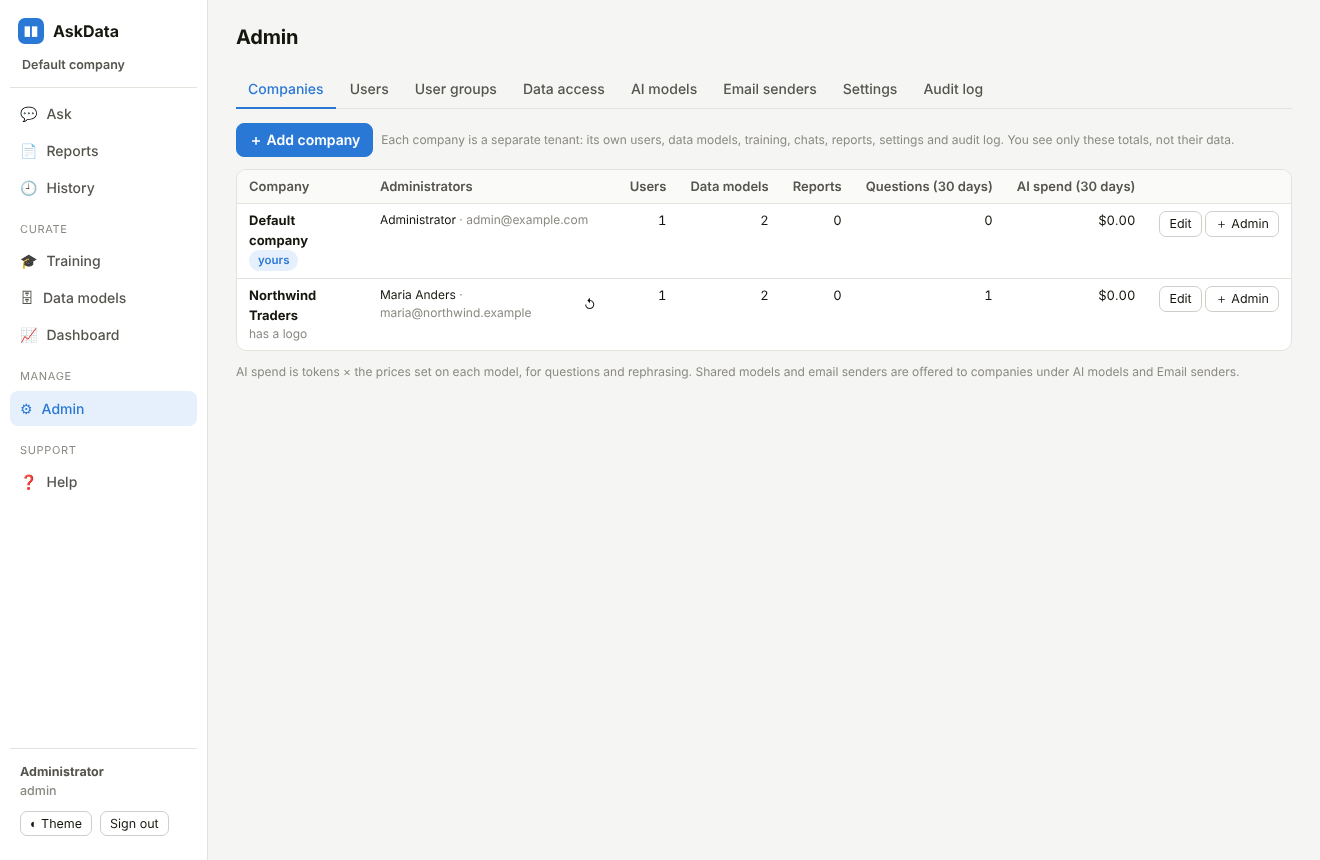
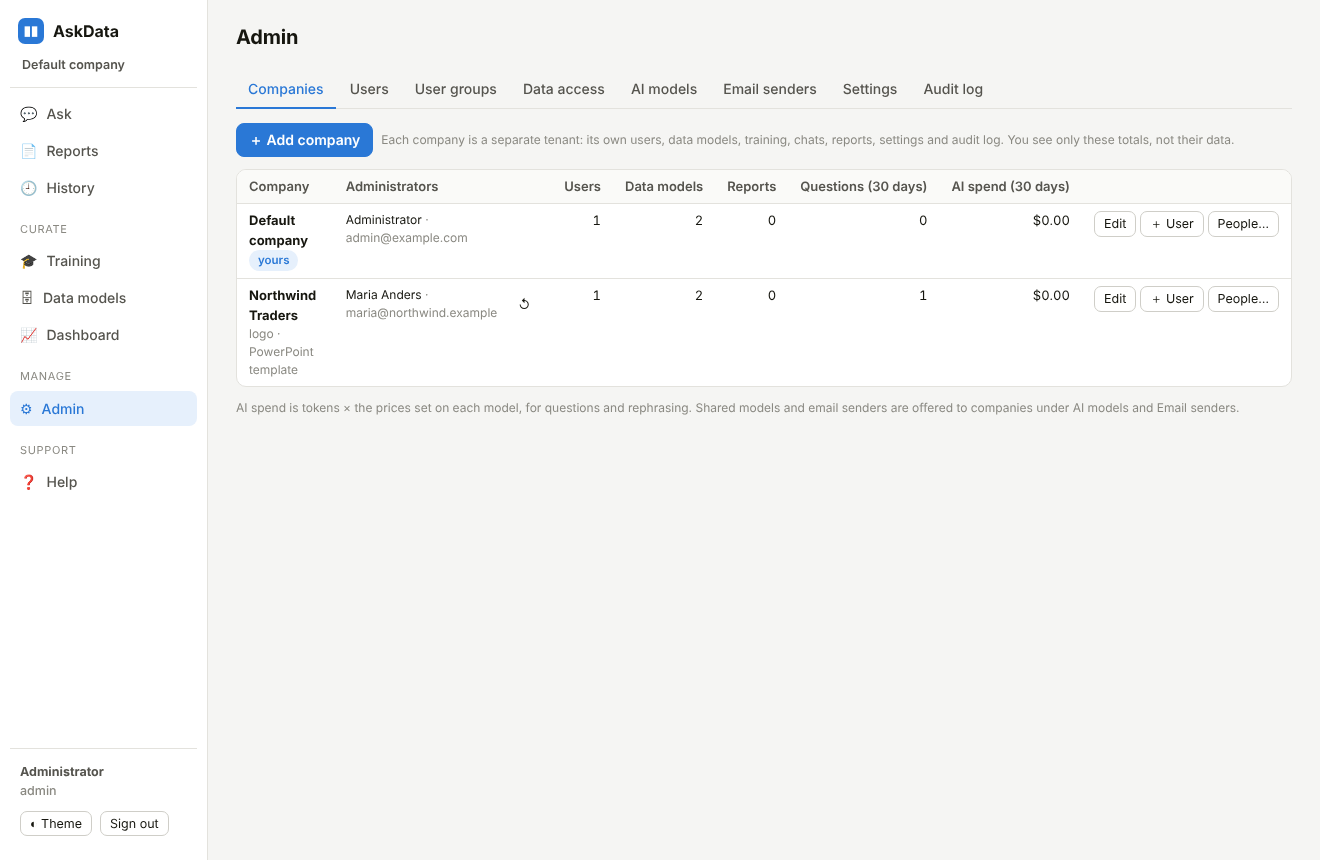
Companies: add people of any role to a company, and move people between companies
Platform administrators get "＋ User" on each company (analyst, steward or
administrator, with the results-only option) and "People…" listing a
company's people with "Move…".

Moving a person signs them out and removes every tie to the old company:
group memberships, personal data-model access, personal row filters,
things shared with them personally and their place on report schedules.
Reports they own are handed to an active administrator of the old company
chosen in the dialog, and any schedule on them is paused because the new
owner's access may differ. Their chats stay with the old company. The last
administrator of a company and one's own account cannot be moved. The move
is audited in both companies and at platform level.

No schema change. Tests: API test for adding, the move's clean-up and the
refusals; browser steps for both dialogs. Help and README updated.

Claude-Session: https://claude.ai/code/session_01Cbo37shq3Kw4uyW2GmsL1T

diff --git a/text2sql/static/js/admin.js b/text2sql/static/js/admin.js
@@ -178,12 +178,59 @@ function companiesTab(el) {
         close(); toast('Saved'); draw();
       }) }, 'Save')] });
   };
-  const addAdmin = c => {
-    const email = h('input', { type: 'email' }), person = h('input', { type: 'text' });
-    modal(`Add an administrator to ${c.name}`, h('div', { class: 'stack' }, field('Email', email), field('Name', person)), {
+  const ROLE_OPTS = [['analyst', 'Analyst — asks questions'], ['steward', 'Data steward — also curates training, sees dashboard'], ['admin', 'Administrator — manages the company']];
+  const roleAndView = (role0 = 'analyst', showSql = true) => {
+    const role = select(ROLE_OPTS, role0), view = select([['all', 'Results, SQL and code'], ['results', 'Results only — no SQL or Python code']], showSql ? 'all' : 'results');
+    const sync = () => { view.disabled = role.value !== 'analyst'; if (view.disabled) view.value = 'all'; };
+    role.addEventListener('change', sync); sync();
+    return { role, view, fields: [field('Role', role), field('What answers show', view, 'analysts only')] };
+  };
+  const addUser = (c, done = draw) => {
+    const email = h('input', { type: 'email' }), person = h('input', { type: 'text' }), rv = roleAndView();
+    modal(`Add a user to ${c.name}`, h('div', { class: 'stack' }, h('div', { class: 'grid2' }, field('Email', email), field('Name', person)), ...rv.fields,
+      h('p', { class: 'small dim', style: 'margin:0' }, `They belong to ${c.name} only and see only its data models, chats and reports. They get a one-time password and choose their own at first sign-in.`)), {
       actions: close => [h('button', { class: 'btn', onclick: close }, 'Cancel'), h('button', { class: 'btn primary', onclick: e => busy(e.target, async () => {
-        const r = await api('POST', `/api/admin/companies/${c.id}/admins`, { email: email.value, name: person.value }); close(); draw(); showPw(r.email, r.temporary_password);
-      }) }, 'Add')] });
+        const r = await api('POST', `/api/admin/companies/${c.id}/users`, { email: email.value, name: person.value, role: rv.role.value, show_sql: rv.view.value !== 'results' });
+        close(); done(); showPw(r.email, r.temporary_password);
+      }) }, 'Add user')] });
+  };
+  const move = (u, from, all, done) => {
+    const others = all.filter(x => x.id !== from.id);
+    const to = select(others.map(x => [x.id, x.name + (x.is_active ? '' : ' (inactive)')]), others[0]?.id);
+    const rv = roleAndView(u.role, u.show_sql);
+    const heirs = from.admins.filter(a => a.id !== u.id && a.is_active);
+    const heir = u.reports ? select(heirs.map(a => [a.id, `${a.name || a.email} · ${a.email}`]), heirs[0]?.id) : null;
+    modal(`Move ${u.name || u.email} to another company`, h('div', { class: 'stack' }, field('Move to', to), ...rv.fields,
+      u.reports ? (heirs.length ? field(`Who takes over their ${u.reports} report${u.reports > 1 ? 's' : ''} in ${from.name}`, heir, 'an administrator of the company they leave')
+        : h('div', { class: 'banner warn small' }, `They own ${u.reports} report${u.reports > 1 ? 's' : ''}, and ${from.name} has no other active administrator to take ${u.reports > 1 ? 'them' : 'it'} over. Add one with ＋ User first.`)) : null,
+      h('div', { class: 'banner info small' }, h('b', {}, 'What happens: '), `they are signed out, and next time they sign in to the new company. In ${from.name} they leave their user groups, their personal data access, row filters and shares, and any report schedules that email them. `,
+        u.reports ? `Their reports stay in ${from.name} with the person chosen above; any schedule on them is paused until that person checks and restarts it. ` : '',
+        `Their chats stay with ${from.name} and are no longer visible to them. Nothing is deleted.`)), {
+      actions: close => [h('button', { class: 'btn', onclick: close }, 'Cancel'), h('button', { class: 'btn primary', disabled: !others.length || (u.reports && !heirs.length), onclick: e => busy(e.target, async () => {
+        const r = await api('POST', `/api/admin/companies/${to.value}/users/${u.id}/move`, { role: rv.role.value, show_sql: rv.view.value !== 'results', reports_to: heir ? Number(heir.value) : null });
+        close(); done();
+        toast(`${r.email} moved` + (r.reports_handed_over ? ` — ${r.reports_handed_over} report(s) now with ${r.reports_to}` + (r.schedules_paused ? `, ${r.schedules_paused} schedule(s) paused` : '') : ''));
+      }) }, 'Move')] });
+  };
+  const people = (c, all) => {
+    const box = h('div', { class: 'stack' });
+    const load = async () => {
+      const list = await api('GET', `/api/admin/companies/${c.id}/users`);
+      const fresh = (await api('GET', '/api/admin/companies')).find(x => x.id === c.id) || c;
+      fill(box, h('div', { class: 'row' }, h('button', { class: 'btn primary sm', onclick: () => addUser(c, () => { load(); draw(); }) }, '＋ User'),
+          h('span', { class: 'small dim' }, `${list.length} ${list.length === 1 ? 'person' : 'people'}`)),
+        list.length ? h('div', { class: 'tbl-wrap', style: 'max-height:55vh' }, h('table', { class: 'tbl' },
+          h('thead', {}, h('tr', {}, ['Person', 'Role', 'Reports', 'Last sign-in', ''].map(t => h('th', {}, t)))),
+          h('tbody', {}, list.map(u => h('tr', {},
+            h('td', {}, h('b', {}, u.name || u.email), h('div', { class: 'small dim' }, u.email)),
+            h('td', {}, u.role, u.role === 'analyst' && !u.show_sql ? h('div', {}, h('span', { class: 'badge' }, 'results only')) : null,
+              u.is_platform_admin ? h('div', {}, h('span', { class: 'badge info' }, 'platform admin')) : null, u.is_active ? null : h('div', {}, h('span', { class: 'badge bad' }, 'disabled'))),
+            h('td', { class: 'num' }, u.reports), h('td', { class: 'nowrap small' }, fmtTime(u.last_login_at)),
+            h('td', { class: 'right' }, u.id === state.me.id ? h('span', { class: 'small dim' }, 'you')
+              : h('button', { class: 'btn sm', onclick: () => move(u, fresh, all, () => { load(); draw(); }) }, 'Move…'))))))) : h('div', { class: 'empty small' }, 'Nobody yet.'));
+    };
+    modal(`People in ${c.name}`, box, { wide: true });
+    load().catch(fail);
   };
   const reset = (c, a) => async () => {
     if (!await confirmDialog('Reset this administrator’s password?', `${a.email} (${c.name}) gets a new temporary password and is signed out.`, 'Reset', false)) return;
@@ -203,7 +250,7 @@ function companiesTab(el) {
             c.is_mine ? null : h('button', { class: 'btn ghost sm', title: 'Reset this administrator’s password', onclick: reset(c, a) }, '↺'))) : h('span', { class: 'badge warn' }, 'none')),
           h('td', { class: 'num' }, c.users), h('td', { class: 'num' }, c.data_models), h('td', { class: 'num' }, c.reports), h('td', { class: 'num' }, c.questions_30d),
           h('td', { class: 'num' }, '$' + c.spend_30d.toFixed(2)),
-          h('td', { class: 'right nowrap' }, h('button', { class: 'btn sm', onclick: () => editCo(c) }, 'Edit'), ' ', h('button', { class: 'btn sm', onclick: () => addAdmin(c) }, '＋ Admin'))))))),
+          h('td', { class: 'right nowrap' }, h('button', { class: 'btn sm', onclick: () => editCo(c) }, 'Edit'), ' ', h('button', { class: 'btn sm', onclick: () => addUser(c) }, '＋ User'), ' ', h('button', { class: 'btn sm', onclick: () => people(c, list) }, 'People…'))))))),
       h('p', { class: 'small dim' }, 'AI spend is tokens × the prices set on each model, for questions and rephrasing. Shared models and email senders are offered to companies under AI models and Email senders.')));
   }
   draw().catch(fail);

diff --git a/text2sql/static/help/help.html b/text2sql/static/help/help.html
@@ -699,7 +699,7 @@ GRANT SELECT ON ALL TABLES IN SCHEMA db.public TO ROLE askdata_ro;</pre>
 <h3>Who does what</h3>
 <table>
 <tr><th>Role</th><th>Can</th></tr>
-<tr><td><b>Platform administrator</b></td><td>Everything an administrator can do in their own company, plus the <b>Companies</b> tab: add, rename and suspend companies, add a company's administrators and reset their passwords, upload a company's logo, see each company's size and AI spend — but <i>not</i> its data. Manages the <b>shared</b> AI models and email senders, and installation-wide settings (session length, sign-in lockout).</td></tr>
+<tr><td><b>Platform administrator</b></td><td>Everything an administrator can do in their own company, plus the <b>Companies</b> tab: add, rename and suspend companies, add people to any company and move them between companies, reset administrators' passwords, upload a company's logo, see each company's size and AI spend — but <i>not</i> its data. Manages the <b>shared</b> AI models and email senders, and installation-wide settings (session length, sign-in lockout).</td></tr>
 <tr><td><b>Administrator</b> (of a company)</td><td>Everything inside their company: users, groups, data models, data access and filters, their own AI models and email senders, which shared ones their company uses, company settings and logo.</td></tr>
 </table>
 <p>After an update from a single-company version, everything that existed becomes <b>Default company</b> (rename it under Companies) and the existing administrators become platform administrators. A platform administrator can give or take away this right under Admin → Users (<i>Platform administrator</i>, for administrators only).</p>
@@ -711,7 +711,21 @@ GRANT SELECT ON ALL TABLES IN SCHEMA db.public TO ROLE askdata_ro;</pre>
 <li>Pass the one-time password shown to their administrator securely; they choose their own at first sign-in.</li>
 <li>Give the company an AI model: share one (below), or let their administrator add their own key under AI models.</li>
 </ol>
-<p><b>Edit</b> renames a company, uploads its logo, or makes it <b>inactive</b>: all its people are signed out at once and cannot sign in until it is active again; nothing is deleted. You cannot suspend your own company. <b>＋ Admin</b> adds another administrator; <b>↺</b> next to an administrator gives them a new temporary password (for a company that is locked out).</p>
+<p><b>Edit</b> renames a company, uploads its logo, or makes it <b>inactive</b>: all its people are signed out at once and cannot sign in until it is active again; nothing is deleted. You cannot suspend your own company. <b>↺</b> next to an administrator gives them a new temporary password (for a company that is locked out).</p>
+<h3>Adding people to a company</h3>
+<p><b>＋ User</b> on a company's row adds a person straight into that company — analyst, data steward or administrator, and for analysts whether answers show <i>results only</i>. Pass the one-time password shown to them securely. A company's own administrator can also add people under Admin → Users; they always join that administrator's company.</p>
+<figure><img src="/static/help/img/company-add-user.png" alt="Add a user to Northwind Traders with email, name, role and what answers show"><figcaption>Adding a user straight into a company.</figcaption></figure>
+<h3>Moving a person to another company</h3>
+<p><b>People…</b> lists a company's people with their role and how many reports they own. <b>Move…</b> moves one of them to another company, with the role (and, for analysts, the view) they will have there.</p>
+<figure><img src="/static/help/img/company-move.png" alt="Move Peter Franken to another company: Move to, Role, What answers show, who takes over their report, and what happens"><figcaption>Moving a person: the new company, their role there, and who takes over their reports.</figcaption></figure>
+<ul>
+<li><b>They are signed out.</b> Next time they sign in, they are in the new company and see only its data models, chats and reports.</li>
+<li><b>Everything that tied them to the old company is removed:</b> their user-group memberships, personal data-model access, personal row filters, chats and reports shared with them personally, and their place on report schedules.</li>
+<li><b>Their reports stay with the old company.</b> You choose one of its administrators to take them over. Any schedule on those reports is <b>paused</b>, because the new owner's access may differ: the new owner checks the report and switches the schedule back on.</li>
+<li><b>Their chats stay with the old company</b> (with their history and audit records) and are no longer visible to them. Nothing is deleted.</li>
+<li>You cannot move the last active administrator of a company (add another first with ＋ User), and you cannot move your own account.</li>
+<li>The move is written to the audit log of both companies.</li>
+</ul>
 <h3>Sharing AI models and email senders with companies</h3>
 <p>Under <b>AI models</b> and <b>Email senders</b>, a platform administrator has an extra section, <i>Platform models — shared with companies</i> (and <i>Platform senders</i>). Add a shared model there, then press <b>Companies…</b> and tick the companies that may use it — or <b>All companies</b>, which includes companies added later.</p>
 <figure><img src="/static/help/img/model-sharing.png" alt="Which companies may use Claude (shared)? with an All companies option and a tick list of companies"><figcaption>Choosing which companies may use a shared model.</figcaption></figure>

diff --git a/text2sql/tests/e2e/tenancy.js b/text2sql/tests/e2e/tenancy.js
@@ -94,5 +94,48 @@ const OUT = process.argv[2], B = 'http://localhost:8010/';
     if (!row.includes('logo') || !/\t1\t/.test(row.replace(/\n/g, '\t'))) throw new Error('row: ' + row.replace(/\n/g, ' | '));
     await admin.screenshot({ path: `${OUT}/companies.png` });
   });
+  let peterPw;
+  await step(admin, 'platform admin adds a user straight into a company', async () => {
+    await admin.locator('tr', { hasText: 'Northwind Traders' }).locator('button:text-is("＋ User")').click();
+    const m = admin.locator('.modal').last(); await m.locator('text=Add a user to Northwind Traders').waitFor();
+    await m.locator('label.field:has-text("Email") input').fill('peter@northwind.example');
+    await m.locator('label.field:has-text("Name") input').fill('Peter Franken');
+    await m.locator('label.field:has-text("What answers show") select').selectOption('results');
+    await m.screenshot({ path: `${OUT}/company-add-user.png` });
+    await m.locator('footer .primary').click(); await admin.waitForSelector('text=Temporary password');
+    peterPw = (await admin.locator('.modal .codes').innerText()).trim(); await admin.keyboard.press('Escape');
+    const people = await call(admin, 'GET', '/api/admin/companies');
+    if (people.find(c => c.name === 'Northwind Traders').users !== 2) throw new Error('not added');
+  });
+  const pe = await newPage();
+  await signIn(pe, 'peter@northwind.example', peterPw, true);
+  await call(pe, 'POST', '/api/reports', { title: 'Peter’s weekly pack', components: [] });
+  await step(admin, 'platform admin moves a user to another company', async () => {
+    await admin.goto(B + '#/admin/companies'); await admin.reload(); await admin.waitForSelector('td:has-text("Northwind Traders")');
+    await admin.locator('tr', { hasText: 'Northwind Traders' }).locator('button:text-is("People…")').click();
+    const list = admin.locator('.modal').last(); await list.locator('td:has-text("peter@northwind.example")').waitFor();
+    await list.screenshot({ path: `${OUT}/company-people.png` });
+    await list.locator('tr', { hasText: 'peter@northwind.example' }).locator('button:text-is("Move…")').click();
+    const m = admin.locator('.modal').last(); await m.locator('text=Move Peter Franken to another company').waitFor();
+    if ((await m.locator('label.field:has-text("Move to") select option').allTextContents()).join() !== 'Default company') throw new Error('targets');
+    const heir = await m.locator('label.field:has-text("takes over") select').innerText();
+    if (!heir.includes('maria@northwind.example')) throw new Error('heir: ' + heir);
+    await m.screenshot({ path: `${OUT}/company-move.png` });
+    await m.locator('footer .primary').click(); await admin.waitForSelector('.toast:has-text("moved")');
+    await list.locator('td:has-text("peter@northwind.example")').waitFor({ state: 'detached' });
+    const toast = await admin.locator('.toast').last().innerText();
+    if (!toast.includes('maria@northwind.example')) throw new Error('toast: ' + toast);
+  });
+  await step(pe, 'the moved user is signed out and lands in the new company', async () => {
+    const me = await pe.evaluate(async () => (await fetch('/api/auth/me')).status);
+    if (me !== 401) throw new Error('still signed in: ' + me);
+    await signIn(pe, 'peter@northwind.example', 'Company-Passw0rd-1');
+    if (!(await pe.locator('.nav .company').innerText()).includes('Default company')) throw new Error('company not in menu');
+    const reps = await call(pe, 'GET', '/api/reports');
+    if (reps.some(r => r.title.startsWith('Peter'))) throw new Error('old report still visible');
+    const mreps = await call(nw, 'GET', '/api/reports');
+    const kept = mreps.find(r => r.title.startsWith('Peter'));
+    if (!kept) throw new Error('report not handed over to Maria');
+  });
   console.log('console errors:', errors.length ? errors : 'none'); await browser.close();
 })();

diff --git a/text2sql/app/routers/companies.py b/text2sql/app/routers/companies.py
@@ -5,13 +5,14 @@ from pathlib import Path
 from fastapi import APIRouter, Depends, File, HTTPException, Request, UploadFile
 from fastapi.responses import FileResponse
 from pydantic import BaseModel
-from sqlalchemy import func, select
+from sqlalchemy import delete, func, select
 from sqlalchemy.orm import Session
 
 from .. import config, security
 from ..db import get_db, now
 from ..deps import admin_only, audit, current_user, platform_admin
-from ..models import Company, Connection, QueryRun, RephraseLog, Report, User
+from ..models import (ROLES, Company, Connection, ConnectionAccess, ConversationShare, DataFilter, QueryRun, RephraseLog, Report,
+                      ReportShare, User, UserGroupMember)
 
 router = APIRouter(prefix="/api", tags=["companies"])
 LOGOS = config.DATA_DIR / "logos"
@@ -64,7 +65,7 @@ def _get(db: Session, company_id: int) -> Company:
 def _new_admin(db: Session, company: Company, email: str, name: str) -> tuple[User, str]:
     email = email.strip().lower()
     if "@" not in email:
-        raise HTTPException(400, "Enter a valid email address for the company administrator.")
+        raise HTTPException(400, "Enter a valid email address.")
     if db.scalar(select(User.id).where(User.email == email)):
         raise HTTPException(400, "A user with this email already exists (an email address belongs to one company).")
     temp = security.random_password()
@@ -132,6 +133,112 @@ def add_admin(company_id: int, body: AdminIn, request: Request, me: User = Depen
     audit(db, request, me, "company.admin_added", c.name, u.email, company_id=None)
     db.commit()
     return {"email": u.email, "temporary_password": temp}
+
+
+class CompanyUserIn(BaseModel):
+    email: str
+    name: str = ""
+    role: str = "analyst"
+    show_sql: bool = True
+
+
+class MoveIn(BaseModel):
+    role: str = "analyst"
+    show_sql: bool = True
+    reports_to: int | None = None      # an administrator of the old company who takes over the person's reports
+
+
+def _person(u: User) -> dict:
+    return {"id": u.id, "email": u.email, "name": u.name, "role": u.role, "is_active": u.is_active,
+            "show_sql": u.show_sql is not False, "is_platform_admin": bool(u.is_platform_admin),
+            "last_login_at": u.last_login_at.isoformat() if u.last_login_at else None}
+
+
+@router.get("/admin/companies/{company_id}/users")
+def company_users(company_id: int, me: User = Depends(platform_admin), db: Session = Depends(get_db)):
+    """The people of one company (names, roles) - so a platform administrator can add or move them. No data."""
+    c = _get(db, company_id)
+    people = list(db.scalars(select(User).where(User.company_id == c.id).order_by(User.email)))
+    owned = dict(db.execute(select(Report.owner_id, func.count()).where(Report.company_id == c.id).group_by(Report.owner_id)).all())
+    return [{**_person(u), "reports": owned.get(u.id, 0)} for u in people]
+
+
+@router.post("/admin/companies/{company_id}/users")
+def add_company_user(company_id: int, body: CompanyUserIn, request: Request, me: User = Depends(platform_admin),
+                     db: Session = Depends(get_db)):
+    """Add a person of any role straight into a company."""
+    c = _get(db, company_id)
+    if body.role not in ROLES:
+        raise HTTPException(400, "Unknown role.")
+    u, temp = _new_admin(db, c, body.email, body.name)
+    u.role, u.show_sql = body.role, (body.show_sql if body.role == "analyst" else True)
+    db.flush()
+    detail = f"{u.email} as {u.role}{'' if u.show_sql else ', results only'}"
+    audit(db, request, me, "company.user_added", c.name, detail, company_id=None)
+    audit(db, request, me, "user.created", u.email, f"{detail} - added by the platform administrator", company_id=c.id)
+    db.commit()
+    return {**_person(u), "temporary_password": temp}
+
+
+@router.post("/admin/companies/{company_id}/users/{user_id}/move")
+def move_user(company_id: int, user_id: int, body: MoveIn, request: Request, me: User = Depends(platform_admin),
+              db: Session = Depends(get_db)):
+    """Move a person to this company. Everything that tied them to their old company is removed: group
+    memberships, direct data-model access, personal row filters, things shared with them personally and
+    their place on report schedules. Their reports are handed to an administrator of the old company with
+    any schedule paused; their chats stay with the old company. They are signed out."""
+    target = _get(db, company_id)
+    u = db.get(User, user_id)
+    if not u:
+        raise HTTPException(404, "Not found")
+    if body.role not in ROLES:
+        raise HTTPException(400, "Unknown role.")
+    if u.company_id == target.id:
+        raise HTTPException(400, f"{u.email} is already in {target.name}.")
+    if u.id == me.id:
+        raise HTTPException(400, f"You are signed in as {me.email}, so this is your own account: you cannot move it. "
+                                 "Sign in as another platform administrator to do it.")
+    old = db.get(Company, u.company_id) if u.company_id else None
+    old_name = old.name if old else "no company"
+    if u.role == "admin" and u.is_active and db.scalar(select(func.count()).where(
+            User.role == "admin", User.is_active, User.id != u.id, User.company_id == u.company_id)) == 0:
+        raise HTTPException(400, f"{u.email} is the last active administrator of {old_name}. Add another administrator "
+                                 "to that company first (＋ User), then move them.")
+    reports = list(db.scalars(select(Report).where(Report.owner_id == u.id)))
+    heir = None
+    if reports:
+        heir = db.get(User, body.reports_to) if body.reports_to else None
+        if not heir or heir.id == u.id or heir.company_id != u.company_id or heir.role != "admin" or not heir.is_active:
+            raise HTTPException(400, f"{u.email} owns {len(reports)} report(s). Choose an active administrator of "
+                                     f"{old_name} to take them over.")
+    paused = 0
+    for r in reports:
+        r.owner_id = heir.id
+        if (r.schedule or {}).get("enabled"):
+            r.schedule, r.next_run_at = {**r.schedule, "enabled": False}, None
+            paused += 1
+    # their place on other reports' schedules in the old company
+    for r in db.scalars(select(Report).where(Report.company_id == u.company_id, Report.schedule.is_not(None))):
+        ids = (r.schedule or {}).get("user_ids") or []
+        if any(int(i) == u.id for i in ids):
+            r.schedule = {**r.schedule, "user_ids": [i for i in ids if int(i) != u.id]}
+    for model in (UserGroupMember, ConnectionAccess, DataFilter, ReportShare, ConversationShare):
+        db.execute(delete(model).where(model.user_id == u.id))
+    u.company_id, u.role = target.id, body.role
+    u.show_sql = body.show_sql if body.role == "analyst" else True
+    if u.role != "admin":
+        u.is_platform_admin = False
+    u.token_version += 1                       # signed out: the next sign-in opens the new company
+    detail = (f"{u.email}: {old_name} → {target.name} as {u.role}"
+              + (f"; {len(reports)} report(s) handed to {heir.email}" if reports else "")
+              + (f", {paused} schedule(s) paused" if paused else ""))
+    audit(db, request, me, "company.user_moved", target.name, detail, company_id=None)
+    if old:
+        audit(db, request, me, "user.moved_out", u.email, detail, company_id=old.id)
+    audit(db, request, me, "user.moved_in", u.email, detail, company_id=target.id)
+    db.commit()
+    return {**_person(u), "reports_handed_over": len(reports), "schedules_paused": paused,
+            "reports_to": heir.email if heir else None}
 
 
 @router.post("/admin/companies/{company_id}/admins/{user_id}/reset-password")

diff --git a/text2sql/tests/test_tenancy.py b/text2sql/tests/test_tenancy.py
@@ -243,3 +243,77 @@ def test_removing_platform_admin_rights(admin):
                                                                   "is_active": True, "show_sql": True, "is_platform_admin": False})
     assert own.status_code == 400 and f"signed in as {me['email']}" in own.json()["detail"]
     assert a.delete(f"/api/admin/users/{second['id']}", headers=H).status_code == 200
+
+
+def test_platform_admin_adds_and_moves_people(two):
+    """＋ User puts anyone into a company; moving a person removes every tie to the old company,
+    hands their reports to an old-company administrator (schedules paused) and signs them out."""
+    a = two["a"]
+    cos = {c["name"]: c for c in a.get("/api/admin/companies").json()}
+    one, b = next(c for c in cos.values() if c["is_mine"]), cos["Beta Ltd"]
+    boss0 = next(x for x in b["admins"] if x["email"] == "boss@beta.test")      # earlier tests signed Beta out
+    pw = a.post(f"/api/admin/companies/{b['id']}/admins/{boss0['id']}/reset-password", headers=H).json()["temporary_password"]
+    beta = _sign_in("boss@beta.test", pw, new="Tenant-Passw0rd-9")
+    assert beta.get(f"/api/admin/companies/{b['id']}/users").status_code == 403          # platform administrators only
+    assert beta.post(f"/api/admin/companies/{one['id']}/users", headers=H, json={"email": "x@x.test"}).status_code == 403
+
+    # ＋ User: any role, straight into another company
+    r = a.post(f"/api/admin/companies/{b['id']}/users", headers=H,
+               json={"email": "mo@beta.test", "name": "Mo Mover", "role": "analyst", "show_sql": False}).json()
+    assert r["role"] == "analyst" and r["show_sql"] is False
+    assert a.post(f"/api/admin/companies/{b['id']}/users", headers=H, json={"email": "mo@beta.test"}).status_code == 400
+    assert a.post(f"/api/admin/companies/{b['id']}/users", headers=H, json={"email": "z@beta.test", "role": "boss"}).status_code == 400
+    st = a.post(f"/api/admin/companies/{b['id']}/users", headers=H, json={"email": "stew@beta.test", "role": "steward"}).json()
+    assert "mo@beta.test" in [u["email"] for u in beta.get("/api/admin/users").json()]       # Beta's admin sees them
+    mo = _sign_in("mo@beta.test", r["temporary_password"])
+    assert mo.get("/api/auth/me").json()["company"]["name"] == "Beta Ltd"
+
+    # Mo's ties to Beta: a group, a report with a schedule, a place on a colleague's schedule, a personal share
+    gid = beta.post("/api/admin/groups", headers=H, json={"name": "Movers", "user_ids": [r["id"]]}).json()["id"]
+    rep = mo.post("/api/reports", headers=H, json={"title": "Mo's pack", "components": []}).json()["id"]
+    assert mo.put(f"/api/reports/{rep}/schedule", headers=H, json={"enabled": True, "recipients": ["out@else.test"]}).status_code == 200
+    boss_rep = beta.post("/api/reports", headers=H, json={"title": "Boss pack", "components": []}).json()["id"]
+    assert beta.put(f"/api/reports/{boss_rep}/schedule", headers=H, json={"enabled": True, "user_ids": [r["id"]]}).status_code == 200
+    beta.put(f"/api/reports/{boss_rep}/shares", headers=H, json={"shares": [{"scope": "user", "user_id": r["id"]}]})
+    assert r["id"] in [x["user_id"] for x in beta.get(f"/api/reports/{boss_rep}").json()["shares"]]
+    assert r["id"] in beta.get(f"/api/reports/{boss_rep}").json()["schedule"]["user_ids"]
+    people = {u["email"]: u for u in a.get(f"/api/admin/companies/{b['id']}/users").json()}
+    assert people["mo@beta.test"]["reports"] == 1
+    boss = people["boss@beta.test"]
+
+    url = f"/api/admin/companies/{one['id']}/users/{r['id']}/move"
+    assert a.post(url, headers=H, json={"role": "analyst"}).status_code == 400                 # who takes over the report?
+    assert a.post(url, headers=H, json={"role": "analyst", "reports_to": st["id"]}).status_code == 400   # a steward cannot
+    me = next(u for u in a.get(f"/api/admin/companies/{one['id']}/users").json() if u["email"] == "admin@test.local")
+    assert a.post(f"/api/admin/companies/{b['id']}/users/{me['id']}/move", headers=H, json={"role": "admin"}).status_code == 400  # own account
+    assert a.post(f"/api/admin/companies/{one['id']}/users/{boss['id']}/move", headers=H,
+                  json={"role": "admin"}).status_code == 400                                   # Beta's last administrator
+    out = a.post(url, headers=H, json={"role": "steward", "reports_to": boss["id"]})
+    assert out.status_code == 200, out.text
+    out = out.json()
+    assert out["reports_handed_over"] == 1 and out["schedules_paused"] == 1 and out["role"] == "steward"
+
+    # old ties are gone; the report stays in Beta with its new owner, its schedule paused
+    assert mo.get("/api/auth/me").status_code == 401                                            # signed out
+    assert "mo@beta.test" not in [u["email"] for u in beta.get("/api/admin/users").json()]
+    assert next(g for g in beta.get("/api/admin/groups").json() if g["id"] == gid)["user_ids"] == []
+    handed = beta.get(f"/api/reports/{rep}").json()
+    assert handed["schedule"]["enabled"] is False
+    assert next(x for x in beta.get("/api/reports").json() if x["id"] == rep)["scheduled"] is False
+    assert r["id"] not in beta.get(f"/api/reports/{boss_rep}").json()["schedule"]["user_ids"]
+    assert r["id"] not in [x["user_id"] for x in beta.get(f"/api/reports/{boss_rep}").json()["shares"]]
+
+    # in the new company: sees only that company's things, nothing of Beta's
+    mo = _sign_in("mo@beta.test", "Tenant-Passw0rd-1", new="Tenant-Passw0rd-2")
+    assert mo.get("/api/auth/me").json()["company"]["id"] == one["id"]
+    assert mo.get("/api/auth/me").json()["role"] == "steward"
+    assert rep not in [x["id"] for x in mo.get("/api/reports").json()]
+    assert mo.get(f"/api/reports/{boss_rep}").status_code in (403, 404)
+    assert "mo@beta.test" in [u["email"] for u in a.get("/api/admin/users").json()]
+    assert "user.moved_out" in [e["action"] for e in beta.get("/api/admin/audit").json()["items"]]
+    assert "user.moved_in" in [e["action"] for e in a.get("/api/admin/audit").json()["items"]]
+
+    # tidy up for later tests
+    a.delete(f"/api/admin/users/{r['id']}", headers=H)
+    beta.delete(f"/api/admin/users/{st['id']}", headers=H)
+    beta.delete(f"/api/admin/groups/{gid}", headers=H)

diff --git a/text2sql/README.md b/text2sql/README.md
@@ -44,7 +44,7 @@ answers a few questions about the sample data (add it as a *Self-hosted* model, 
 | **Summary** | Explains the result by its shape (trend, ranking, two-way breakdown, pivot, listing): leaders and shares, highs and lows, change over the period, concentration. Averages, rates and prices are never totalled. Computed on the server. |
 | **Output** | Chart (bar, horizontal, stacked, line, area, pie, doughnut, scatter, big numbers) with selectable axes, extra measure and split-by. IDs, codes and years are treated as categories, never summed; two measures on different scales get a panel each; sortable table; locally computed summary. Export **PDF report**, CSV, Excel, chart PNG. |
 | **Follow-ups & history** | Suggested follow-up questions; conversations keep context (earlier questions + SQL); chats and results are saved, searchable, renamable and grouped by date. |
-| **Companies (multi-tenant)** | One installation, several fully separate companies: users, groups, data models and training, chats, reports, filters, settings, email and audit logs are per company and checked by the server on every request. Platform administrators add / rename / suspend companies, manage their administrators and see usage and AI spend per company (not their data). AI models and email senders can be a company's own or **shared by the platform** with all or selected companies; a company can switch shared ones off; names never clash. Company logo in the menu and on report PDFs. |
+| **Companies (multi-tenant)** | One installation, several fully separate companies: users, groups, data models and training, chats, reports, filters, settings, email and audit logs are per company and checked by the server on every request. Platform administrators add / rename / suspend companies, add people of any role to any company, move people between companies (old ties removed, their reports handed to an administrator of the old company with schedules paused, chats left behind), manage their administrators and see usage and AI spend per company (not their data). AI models and email senders can be a company's own or **shared by the platform** with all or selected companies; a company can switch shared ones off; names never clash. Company logo in the menu and on report PDFs. |
 | **Results-only users** | Per user (analysts): see results, SQL and code, or **results only**. Enforced by the server — SQL and Python code are left out of answers, shared chats, reports, PDFs and exports for those users. |
 | **Reported problems** | Anyone can mark an answer incorrect, choosing what is wrong and saying why (both required). It goes to the steward review queue, where a steward fixes the SQL (tested, then saved as a verified example), adds a business rule, or dismisses it; the user sees the outcome under the answer. |
 | **Rephrase** | ✨ Rephrase next to Ask (and on asked questions) suggests a clearer, self-contained wording before the question is sent: business terms, measure, grouping, period; never adds filters. Small prompt (names, not DDL or SQL — about a sixth of a full question on the SAP sample), an admin-chosen (cheaper) model, plus verified questions found locally for free. Every use is logged; the dashboard shows its cost and whether rephrased questions are answered right first time more often. |

diff --git a/text2sql/CLAUDE.md b/text2sql/CLAUDE.md
@@ -154,7 +154,9 @@ Settings: `deps.get_settings(db, company_id)` = defaults < installation rows < `
 `routers/companies.py`: the Companies API (platform admins) and logos (PNG/JPEG/WebP checked by magic bytes,
 stored in `DATA_DIR/logos`, served only to the company's own people; also drawn on report PDFs).
 `main._per_company_names` rebuilds SQLite tables whose `name` was unique installation-wide; `_first_company`
-moves an older database into "Default company". Samples: `add_retail_sample` / `add_sample_model(spec, company)`.
+moves an older database into "Default company". Platform admins add people of any role to a company (`POST /api/admin/companies/{id}/users`) and move them
+(`.../users/{uid}/move`): group memberships, direct access, personal filters, personal shares and schedule places are
+deleted; owned reports go to a chosen active admin of the old company with schedules paused; chats stay behind; sessions revoked. Samples: `add_retail_sample` / `add_sample_model(spec, company)`.
 
 ### Shared chats
 
